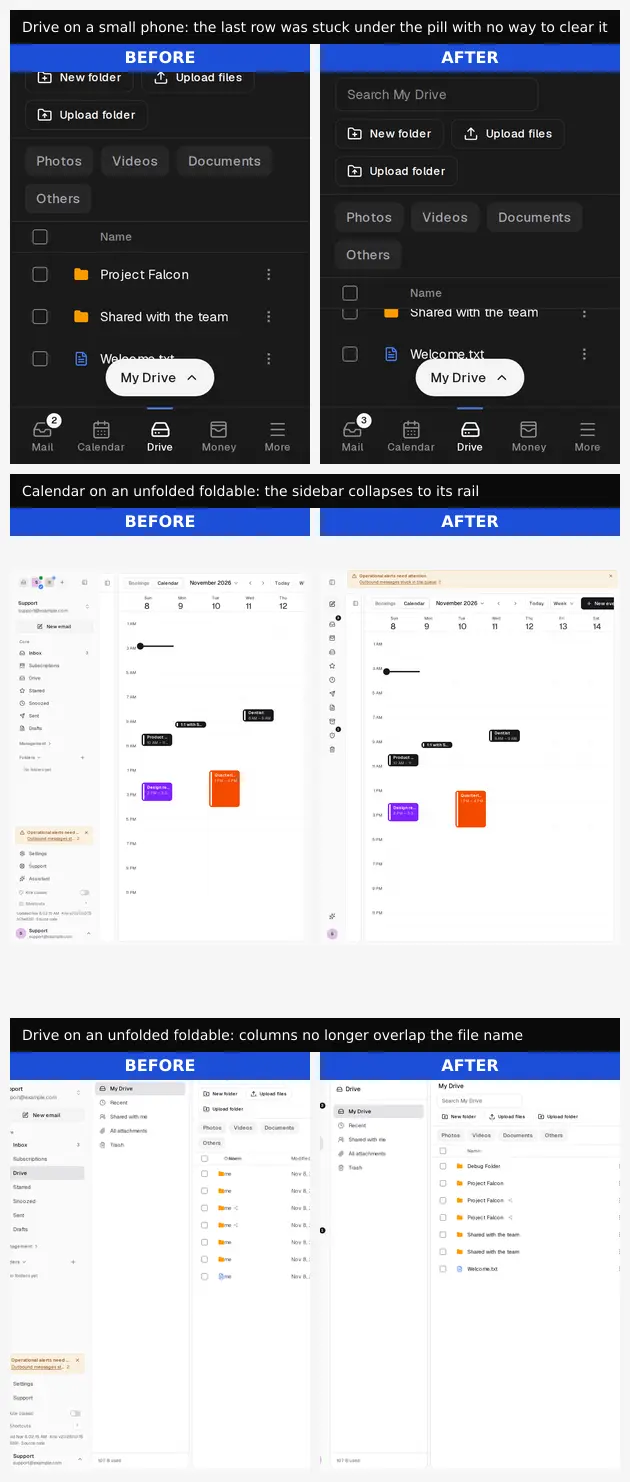
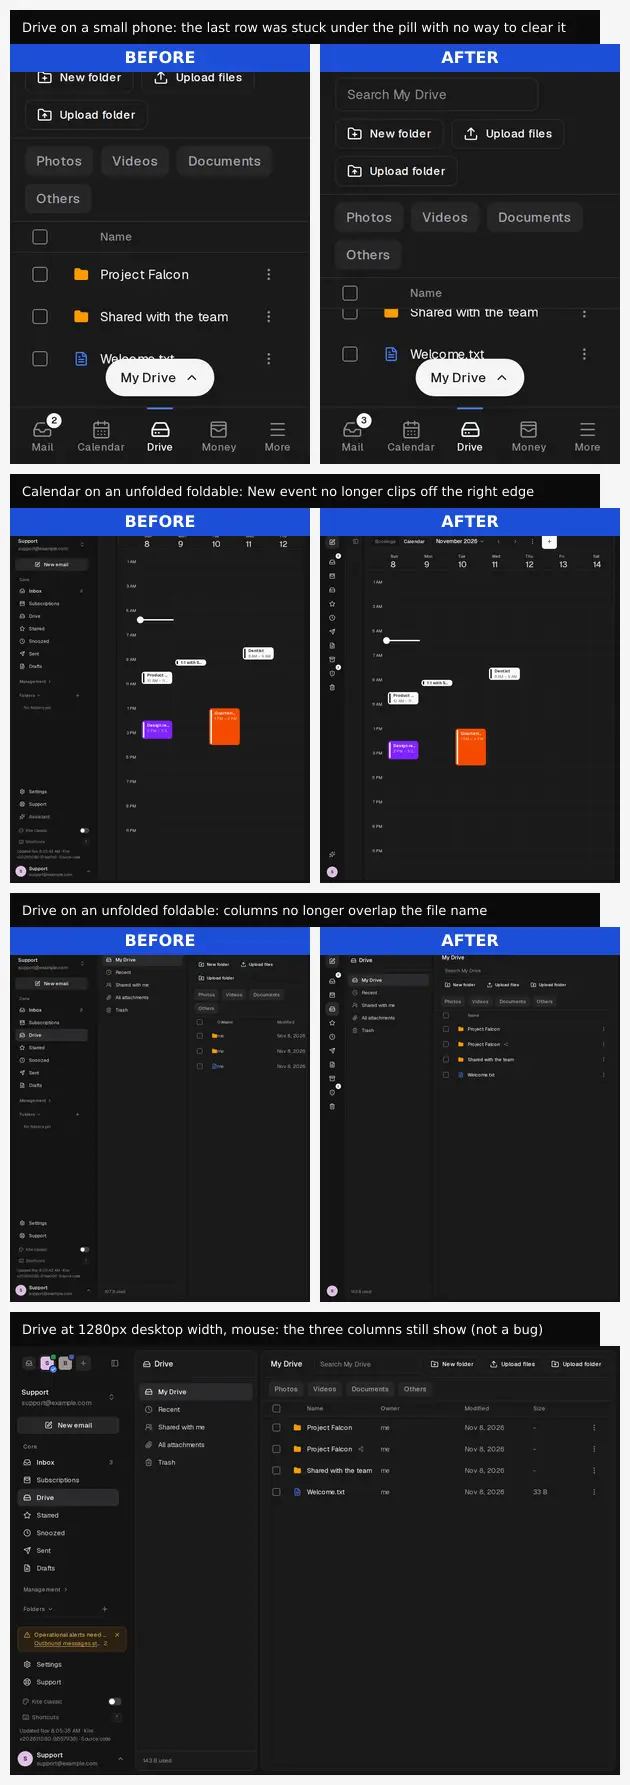
Fix the Calendar toolbar clipping New event on an unfolded foldable
Checking the contact sheet at full 884px width (not the cropped thumbnail) found a real
bug: the Calendar header toolbar (Bookings|Calendar tabs, month label, nav chevrons, Today,
the Day/Week/Month select, New event) needed 767px but the panel next to the collapsed
sidebar only had 735px, so New event and the Saturday column were clipped off the right
edge. It was worse before this branch's sidebar-rail fix (605px available, ~180px clipped)
and is now fixed properly rather than just made less bad by more room.

The toolbar's Today button, view select and New event's compact icon-only mode all gated on
Tailwind's `md` *viewport* breakpoint (768px), the same mismatch the Drive grid had: the
panel's own rendered width can be much narrower than the viewport next to the sidebar and
the collapsed Upcoming events rail. They now gate on a container query (`@max-3xl`, also
768px, measured against the header's own `@container` instead) alongside the existing
phone-width behavior, so the compact kebab menu (Today + view options) replaces them
whenever there genuinely isn't room, phone or not. The kebab's dropdown content is portalled
to the body and cannot see that container, so it needed no width class of its own: its
trigger already gates whether it can open at all.

Checked Drive's own frame at 884px directly too: no real overflow there (confirmed with
document.scrollWidth), only a crop in the earlier contact sheet's thumbnail.
[…]

diff --git a/src/app/(calendar)/calendar/page.tsx b/src/app/(calendar)/calendar/page.tsx
@@ -649,7 +649,7 @@ export default function CalendarPage() {
 				<button
 					type="button"
 					onClick={() => setVisibleDate(new Date())}
-					className="h-8 rounded-lg border border-neutral-200 bg-white px-3 text-sm font-medium text-neutral-700 hover:bg-neutral-100 hover:text-neutral-900 max-md:hidden"
+					className="h-8 rounded-lg border border-neutral-200 bg-white px-3 text-sm font-medium text-neutral-700 hover:bg-neutral-100 hover:text-neutral-900 @max-3xl:hidden"
 				>
 					Today
 				</button>
@@ -658,7 +658,7 @@ export default function CalendarPage() {
 						<button
 							type="button"
 							aria-label="Calendar options"
-							className="flex h-8 w-8 items-center justify-center rounded-lg text-neutral-500 hover:bg-neutral-100 hover:text-neutral-900 md:hidden pointer-coarse:h-11 pointer-coarse:w-11"
+							className="flex h-8 w-8 items-center justify-center rounded-lg text-neutral-500 hover:bg-neutral-100 hover:text-neutral-900 @3xl:hidden pointer-coarse:h-11 pointer-coarse:w-11"
 						>
 							<MoreVertical className="h-5 w-5" />
 						</button>
@@ -667,7 +667,9 @@ export default function CalendarPage() {
 						<DropdownMenu.Content
 							align="end"
 							sideOffset={4}
-							className="z-[130] min-w-40 rounded-xl border border-neutral-200 bg-white p-1 text-sm shadow-xl md:hidden"
+							// Portalled to the body, so it cannot see the header's @container: the trigger above already
+							// gates whether this can open at all, so this needs no width class of its own.
+							className="z-[130] min-w-40 rounded-xl border border-neutral-200 bg-white p-1 text-sm shadow-xl"
 						>
 							<DropdownMenu.Item
 								onSelect={() => setVisibleDate(new Date())}
@@ -681,14 +683,15 @@ export default function CalendarPage() {
 					</DropdownMenu.Portal>
 				</DropdownMenu.Root>
 				<CalendarViewSelect value={view} onChange={setView} />
-				{/* On phones an icon button in the header, so nothing floats over the grid. */}
+				{/* On phones, and whenever the header's own width is too narrow (a foldable's unfolded width next
+					to the sidebar and the Drive views panel), an icon button so nothing is clipped or floats over the grid. */}
 				<Button
 					disabled={pendingAction !== null}
 					onClick={() => openNewEvent()}
-					className="ms-1 max-md:ms-0 max-md:h-8 max-md:w-8 max-md:px-0 max-md:pointer-coarse:h-11 max-md:pointer-coarse:w-11"
+					className="ms-1 max-md:ms-0 max-md:h-8 max-md:w-8 max-md:px-0 max-md:pointer-coarse:h-11 max-md:pointer-coarse:w-11 @max-3xl:ms-0 @max-3xl:h-8 @max-3xl:w-8 @max-3xl:px-0 @max-3xl:pointer-coarse:h-11 @max-3xl:pointer-coarse:w-11"
 				>
 					<Plus className="h-4 w-4" />
-					<span className="max-md:sr-only">New event</span>
+					<span className="max-md:sr-only @max-3xl:sr-only">New event</span>
 				</Button>
 			</div>
 		</>

diff --git a/e2e/102-mobile-modules-audit.spec.ts b/e2e/102-mobile-modules-audit.spec.ts
@@ -136,6 +136,26 @@ test.describe("on an unfolded foldable", () => {
 		expect(width).toBe("72px");
 	});
 
+	test("the Calendar toolbar fits without clipping New event off the right edge", async ({ page }) => {
+		await page.goto("/calendar");
+		const overflow = await page.evaluate(
+			() => document.documentElement.scrollWidth > document.documentElement.clientWidth + 1,
+		);
+		expect(overflow, "the page must not need horizontal scroll").toBe(false);
+		// At this width the toolbar's own container query swaps Today + the view select for the compact kebab
+		// menu, same as a phone, instead of showing both and running out of room.
+		await expect(page.getByRole("button", { name: "Today" })).toHaveCount(0);
+		await expect(page.getByLabel("Calendar view")).toHaveCount(0);
+		const newEvent = page.getByRole("button", { name: "New event" });
+		await expect(newEvent).toBeVisible();
+		const box = (await newEvent.boundingBox())!;
+		expect(box.x + box.width).toBeLessThanOrEqual(884);
+		await page.getByRole("button", { name: "Calendar options" }).click();
+		const menu = page.getByRole("menu");
+		await expect(menu.getByRole("menuitem", { name: "Today" })).toBeVisible();
+		await expect(menu.getByRole("menuitem", { name: "week", exact: true })).toBeVisible();
+	});
+
 	test("the Drive listing hides its Owner/Modified/Size columns instead of overlapping the Name column", async ({
 		page,
 	}) => {

diff --git a/src/app/(calendar)/calendar-panels.tsx b/src/app/(calendar)/calendar-panels.tsx
@@ -88,7 +88,9 @@ export function CalendarPanels({
 				</div>
 				{open && <UpcomingSidebar {...upcoming} />}
 			</SectionNavSheet>
-			<section className={cn("flex min-h-0 min-w-0 flex-1 flex-col overflow-hidden bg-white", SECTION_PANEL_CLASS)}>
+			<section
+				className={cn("@container flex min-h-0 min-w-0 flex-1 flex-col overflow-hidden bg-white", SECTION_PANEL_CLASS)}
+			>
 				<div className={cn(PANEL_HEADER_CLASS, "gap-3 max-md:h-auto max-md:flex-wrap max-md:py-2")}>
 					<CalendarSectionTabs />
 					<Tooltip label="Upcoming events" className="md:hidden">

diff --git a/src/app/(calendar)/calendar/view-selector.tsx b/src/app/(calendar)/calendar/view-selector.tsx
@@ -25,7 +25,7 @@ export function CalendarViewSelect({ value, onChange }: Props) {
 			value={value}
 			onChange={(event) => onChange(event.target.value as CalendarView)}
 			aria-label="Calendar view"
-			containerClassName="h-8 bg-white max-md:hidden"
+			containerClassName="h-8 bg-white @max-3xl:hidden"
 			className="text-sm font-medium text-neutral-700"
 		>
 			{views.map((view) => (
